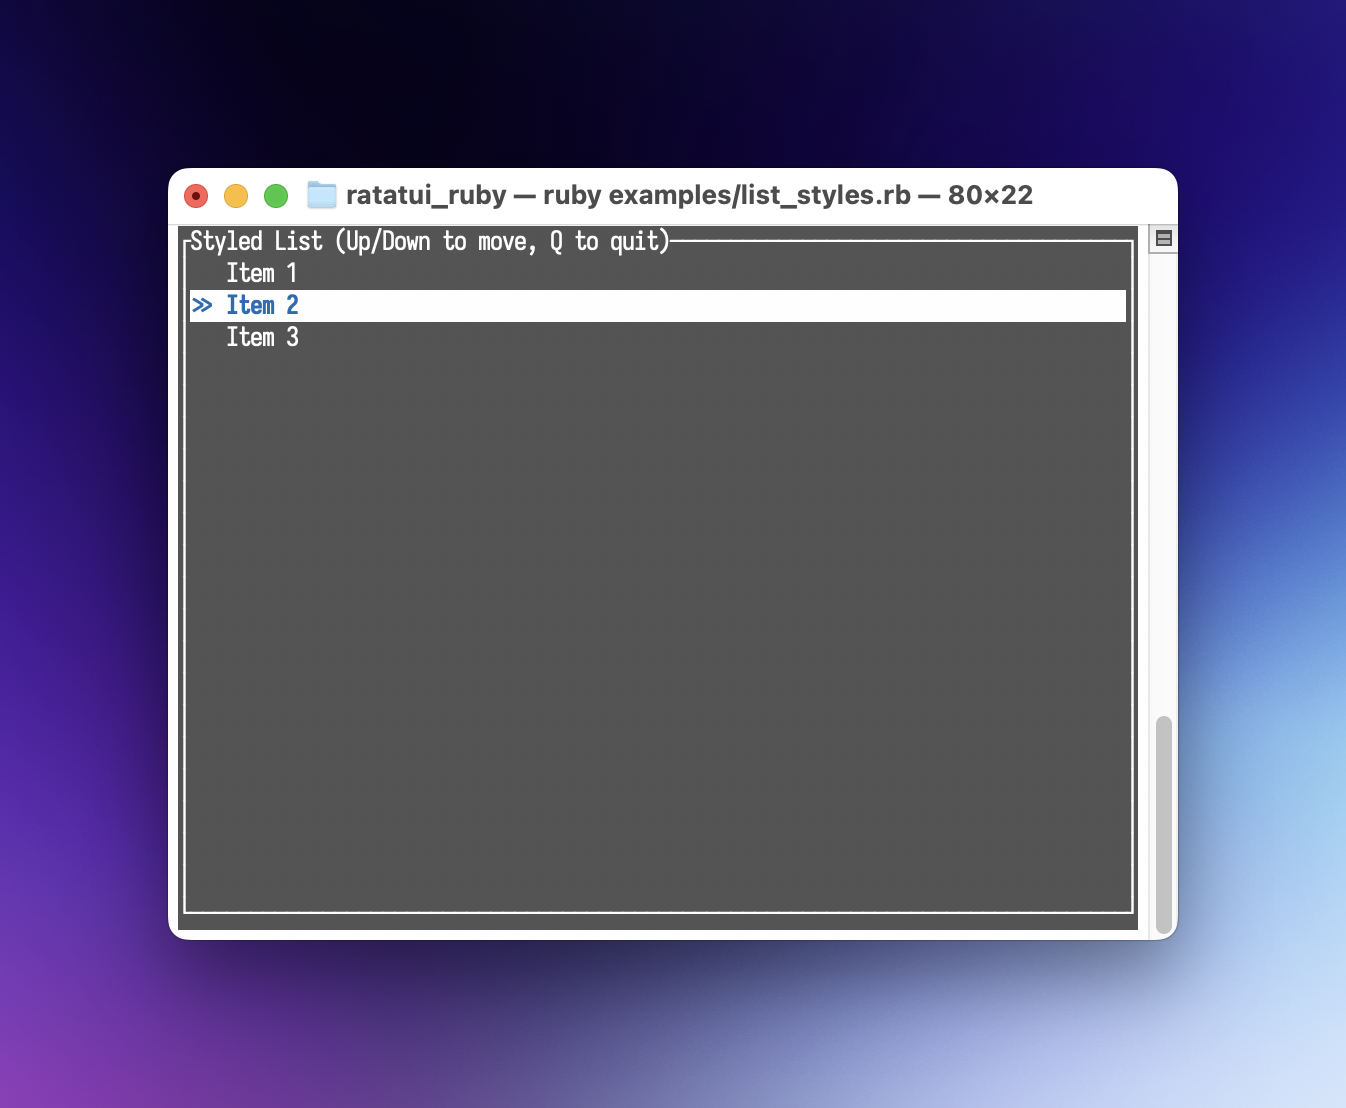
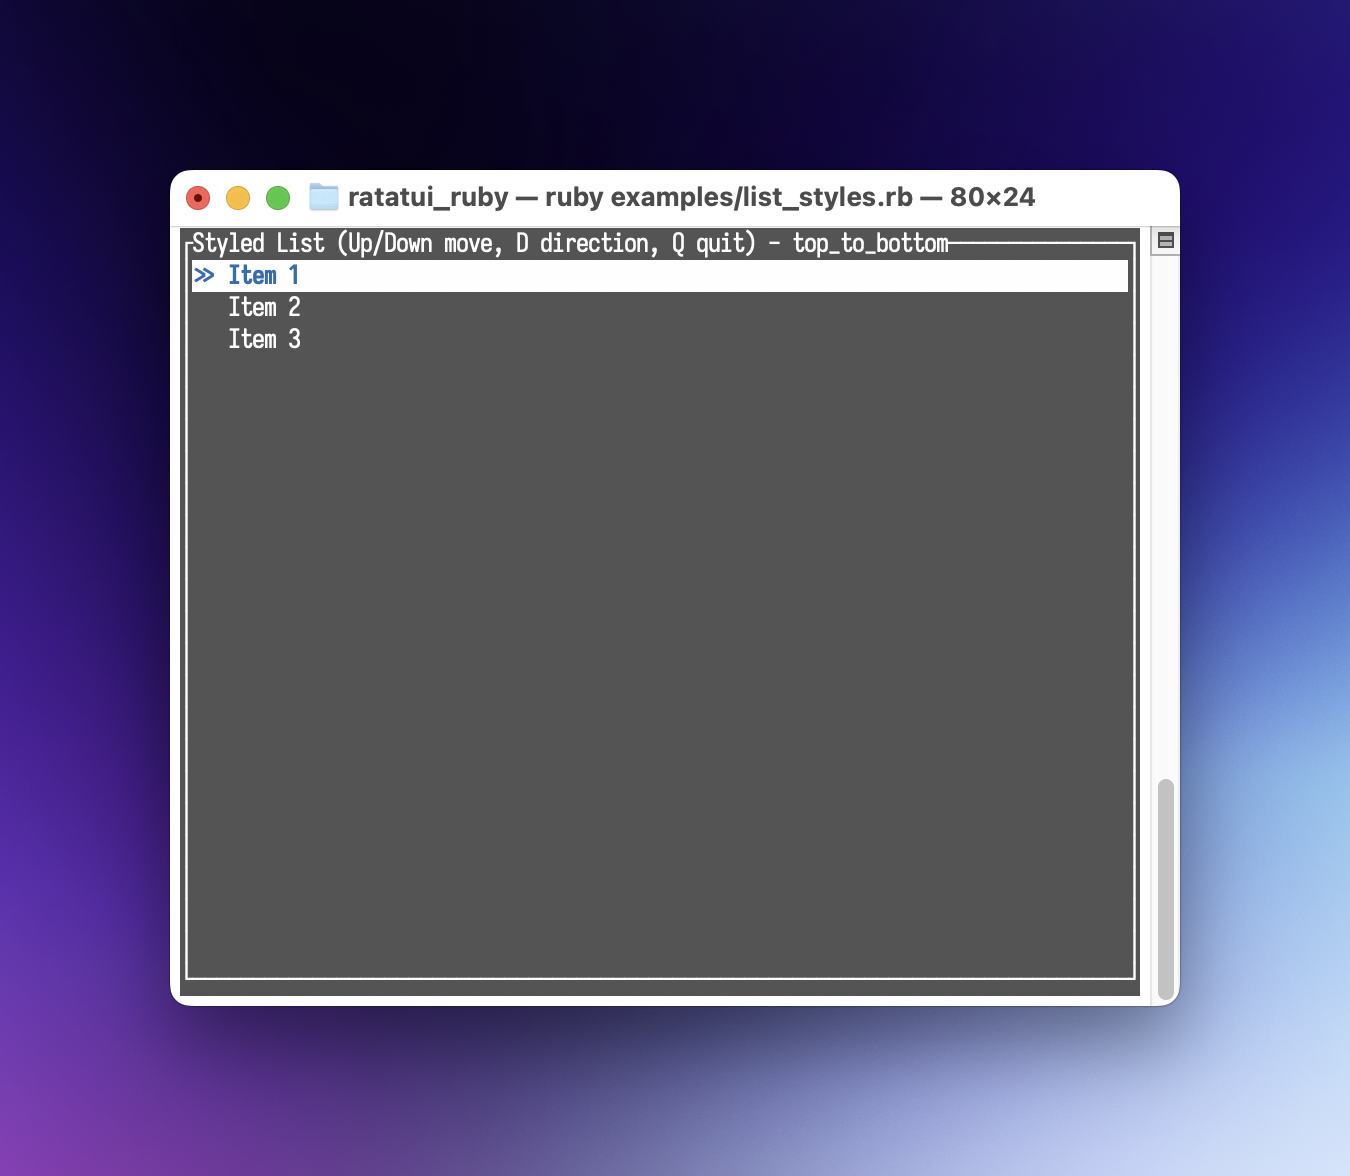
feat(list): add direction attribute
Implemented `direction` attribute for `List` widget, enabling standard
(`:top_to_bottom`) and reverse (`:bottom_to_top`) rendering order.

Also fixed `Paragraph` text parsing to correctly handle `Array` and `Line` inputs.

Generated with [Antigravity](https://antigravity.google)

Changed region(s): [[0.1248, 0.1227, 0.8737, 0.8592]]

diff --git a/test/ratatui_ruby/test_list_styles.rb b/test/ratatui_ruby/test_list_styles.rb
@@ -1,0 +1,46 @@
+# frozen_string_literal: true
+
+# SPDX-FileCopyrightText: 2025 Kerrick Long <me@kerricklong.com>
+# SPDX-License-Identifier: AGPL-3.0-or-later
+
+require "test_helper"
+require_relative "../../examples/list_styles"
+
+class TestListStyles < Minitest::Test
+  def setup
+    @app = ListStylesApp.new
+  end
+
+  def test_initial_render
+    with_test_terminal(80, 10) do
+      @app.render
+      content = buffer_content
+      assert_includes content[0], "top_to_bottom"
+      assert_includes content[1], ">> Item 1"
+      assert_includes content[2], "   Item 2"
+    end
+  end
+
+  def test_toggle_direction
+    with_test_terminal(80, 10) do
+      # Toggle to bottom_to_top
+      RatatuiRuby.inject_test_event("key", { code: "d" })
+      @app.handle_input
+      
+      @app.render
+      content = buffer_content
+      
+      assert_includes content[0], "bottom_to_top"
+      # In bottom_to_top, items start from bottom.
+      # height=10. line 0 is top border. lines 1-8 are content. line 9 is bottom border.
+      # items = 3.
+      # top_to_bottom: at 1, 2, 3.
+      # bottom_to_top: at 8, 7, 6? No, ratatui fills from bottom up.
+      # Let's just check the content existence and order visually or roughly.
+      
+      # We just check that the title changed, confirming state update passed to widget.
+      # And we can check basic rendering.
+      assert_includes content.join("\n"), "Item 1"
+    end
+  end
+end

diff --git a/ext/ratatui_ruby/src/lib.rs b/ext/ratatui_ruby/src/lib.rs
@@ -15,12 +15,13 @@ use terminal::{init_terminal, restore_terminal, TERMINAL};
 fn draw(tree: Value) -> Result<(), Error> {
     let ruby = magnus::Ruby::get().unwrap();
     let mut term_lock = TERMINAL.lock().unwrap();
+    let mut render_error = None;
     if let Some(wrapper) = term_lock.as_mut() {
         match wrapper {
             terminal::TerminalWrapper::Crossterm(term) => {
                 term.draw(|f| {
                     if let Err(e) = rendering::render_node(f, f.area(), tree) {
-                        eprintln!("Render error: {:?}", e);
+                        render_error = Some(e);
                     }
                 })
                 .map_err(|e| Error::new(ruby.exception_runtime_error(), e.to_string()))?;
@@ -28,7 +29,7 @@ fn draw(tree: Value) -> Result<(), Error> {
             terminal::TerminalWrapper::Test(term) => {
                 term.draw(|f| {
                     if let Err(e) = rendering::render_node(f, f.area(), tree) {
-                        eprintln!("Render error: {:?}", e);
+                        render_error = Some(e);
                     }
                 })
                 .map_err(|e| Error::new(ruby.exception_runtime_error(), e.to_string()))?;
@@ -37,6 +38,11 @@ fn draw(tree: Value) -> Result<(), Error> {
     } else {
         eprintln!("Terminal is None!");
     }
+
+    if let Some(e) = render_error {
+        return Err(e);
+    }
+
     Ok(())
 }
 

diff --git a/ext/ratatui_ruby/src/widgets/list.rs b/ext/ratatui_ruby/src/widgets/list.rs
@@ -19,6 +19,7 @@ pub fn render(frame: &mut Frame, area: Rect, node: Value) -> Result<(), Error> {
     let style_val: Value = node.funcall("style", ())?;
     let highlight_style_val: Value = node.funcall("highlight_style", ())?;
     let highlight_symbol_val: Value = node.funcall("highlight_symbol", ())?;
+    let direction_val: Value = node.funcall("direction", ())?;
     let block_val: Value = node.funcall("block", ())?;
 
     let mut items = Vec::new();
@@ -44,6 +45,21 @@ pub fn render(frame: &mut Frame, area: Rect, node: Value) -> Result<(), Error> {
 
     if !highlight_symbol_val.is_nil() {
         list = list.highlight_symbol(Line::from(symbol));
+    }
+
+    if !direction_val.is_nil() {
+        let direction_sym: magnus::Symbol = TryConvert::try_convert(direction_val)?;
+        let direction_str = direction_sym.name().unwrap();
+        match direction_str.as_ref() {
+            "top_to_bottom" => list = list.direction(ratatui::widgets::ListDirection::TopToBottom),
+            "bottom_to_top" => list = list.direction(ratatui::widgets::ListDirection::BottomToTop),
+            _ => {
+                return Err(Error::new(
+                    ruby.exception_arg_error(),
+                    "direction must be :top_to_bottom or :bottom_to_top",
+                ))
+            }
+        }
     }
 
     if !style_val.is_nil() {

diff --git a/lib/ratatui_ruby/schema/list.rb b/lib/ratatui_ruby/schema/list.rb
@@ -11,8 +11,9 @@ module RatatuiRuby
   # [style] The base style for all items.
   # [highlight_style] The style for the selected item.
   # [highlight_symbol] The symbol to display in front of the selected item.
+  # [direction] The direction to display the list items. One of :top_to_bottom or :bottom_to_top.
   # [block] An optional Block widget to wrap the list.
-  class List < Data.define(:items, :selected_index, :style, :highlight_style, :highlight_symbol, :block)
+  class List < Data.define(:items, :selected_index, :style, :highlight_style, :highlight_symbol, :direction, :block)
     # Creates a new List.
     #
     # [items] An array of strings to display in the list.
@@ -20,8 +21,9 @@ module RatatuiRuby
     # [style] The base style for all items.
     # [highlight_style] The style for the selected item.
     # [highlight_symbol] The symbol to display in front of the selected item.
+    # [direction] The direction to display the list items. One of :top_to_bottom or :bottom_to_top.
     # [block] An optional Block widget to wrap the list.
-    def initialize(items: [], selected_index: nil, style: nil, highlight_style: nil, highlight_symbol: "> ", block: nil)
+    def initialize(items: [], selected_index: nil, style: nil, highlight_style: nil, highlight_symbol: "> ", direction: :top_to_bottom, block: nil)
       super
     end
   end

diff --git a/examples/list_styles.rb b/examples/list_styles.rb
@@ -14,6 +14,7 @@ class ListStylesApp
   def initialize
     @items = ["Item 1", "Item 2", "Item 3"]
     @selected_index = 0
+    @direction = :top_to_bottom
   end
 
   def run
@@ -37,8 +38,9 @@ class ListStylesApp
         style: RatatuiRuby::Style.new(fg: :white, bg: :black),
         highlight_style: RatatuiRuby::Style.new(fg: :blue, bg: :white, modifiers: [:bold]),
         highlight_symbol: ">> ",
+        direction: @direction,
         block: RatatuiRuby::Block.new(
-          title: "Styled List (Up/Down to move, Q to quit)",
+          title: "Styled List (Up/Down move, D direction, Q quit) - #{@direction}",
           borders: [:all]
         )
       )
@@ -55,6 +57,8 @@ class ListStylesApp
         @selected_index = (@selected_index - 1) % @items.size
       when "down"
         @selected_index = (@selected_index + 1) % @items.size
+      when "d"
+        @direction = (@direction == :top_to_bottom) ? :bottom_to_top : :top_to_bottom
       when "q"
         return :quit
       end

diff --git a/ext/ratatui_ruby/src/widgets/paragraph.rs b/ext/ratatui_ruby/src/widgets/paragraph.rs
@@ -9,16 +9,19 @@ use ratatui::{
     Frame,
 };
 
+use crate::text::parse_text;
+
 pub fn render(frame: &mut Frame, area: Rect, node: Value) -> Result<(), Error> {
-    let text: String = node.funcall("text", ())?;
+    let text_val: Value = node.funcall("text", ())?;
     let style_val: Value = node.funcall("style", ())?;
     let block_val: Value = node.funcall("block", ())?;
     let wrap: bool = node.funcall("wrap", ())?;
     let align_sym: Symbol = node.funcall("align", ())?;
     let scroll_val: Value = node.funcall("scroll", ())?;
 
+    let lines = parse_text(text_val)?;
     let style = parse_style(style_val)?;
-    let mut paragraph = Paragraph::new(text).style(style);
+    let mut paragraph = Paragraph::new(lines).style(style);
 
     if !block_val.is_nil() {
         paragraph = paragraph.block(parse_block(block_val)?);

diff --git a/test/ratatui_ruby/schema/test_list.rb b/test/ratatui_ruby/schema/test_list.rb
@@ -45,4 +45,27 @@ class TestList < Minitest::Test
       assert_equal ">> Item 2           ", buffer_content[1]
     end
   end
+
+  def test_render_bottom_to_top
+    with_test_terminal(20, 3) do
+      list = RatatuiRuby::List.new(
+        items: ["Item 1", "Item 2"],
+        selected_index: 0,
+        direction: :bottom_to_top
+      )
+      RatatuiRuby.draw(list)
+      # In BottomToTop, the first item is at the bottom
+      assert_equal "  Item 2            ", buffer_content[1]
+      assert_equal "> Item 1            ", buffer_content[2]
+    end
+  end
+
+  def test_invalid_direction
+    assert_raises(ArgumentError) {
+      list = RatatuiRuby::List.new(items: [], direction: :invalid)
+      with_test_terminal(10, 10) do
+        RatatuiRuby.draw(list)
+      end
+    }
+  end
 end

diff --git a/CHANGELOG.md b/CHANGELOG.md
@@ -11,7 +11,7 @@ This project adheres to [Semantic Versioning](https://semver.org/spec/v2.0.0.htm
 ## [Unreleased]
 
 ### Added
-
+- `List`: Added `direction` attribute (`:top_to_bottom` or `:bottom_to_top`).
 - **Block Padding**: `Block` widget now supports correct padding via the `padding` parameter, accepting either a single integer for uniform padding or an array of 4 integers for directional padding (`[left, right, top, bottom]`).
 
 - Added `Flex::SpaceEvenly` layout mode to `Layout` widget.

diff --git a/doc/contributors/gap_analysis_0.30.md b/doc/contributors/gap_analysis_0.30.md
@@ -64,7 +64,7 @@ Comparison of ratatui 0.30 features vs ratatui_ruby current implementation.
 | `highlight_style()` | `highlight_style:` | ✅ |
 | `repeat_highlight_symbol()` | — | ❌ **MISSING** |
 | `highlight_spacing()` | — | ❌ **MISSING** |
-| `direction()` | — | ❌ **MISSING** (TopToBottom/BottomToTop) |
+| `direction()` | `direction:` | ✅ |
 | `scroll_padding()` | — | ❌ **MISSING** |
 
 ---
